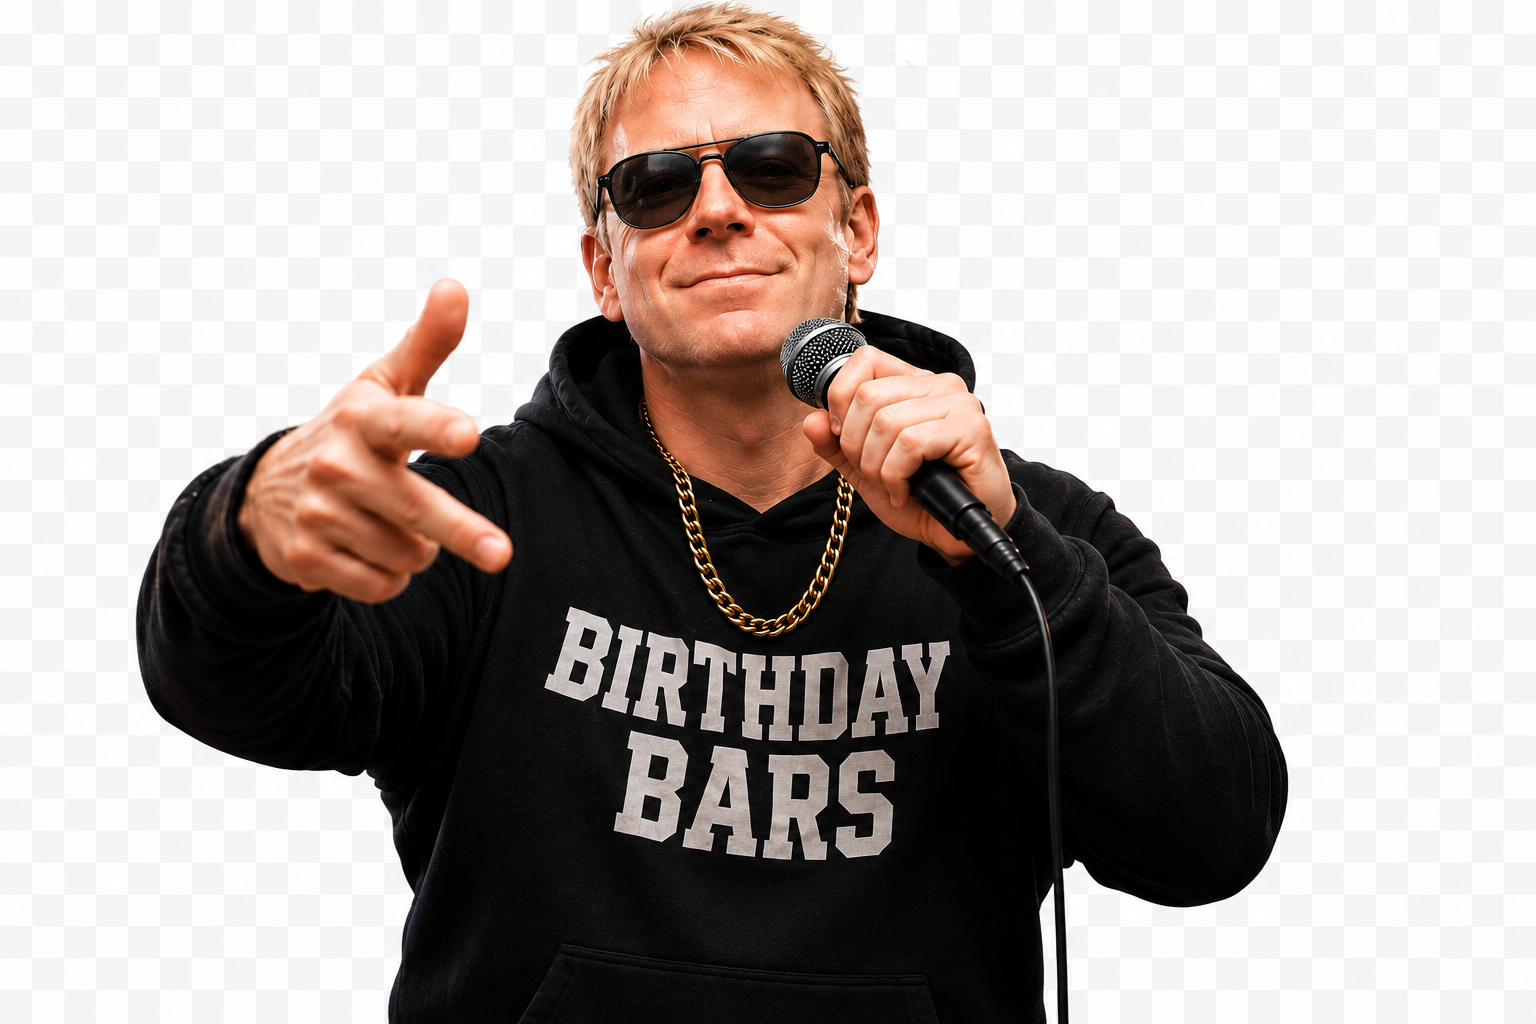
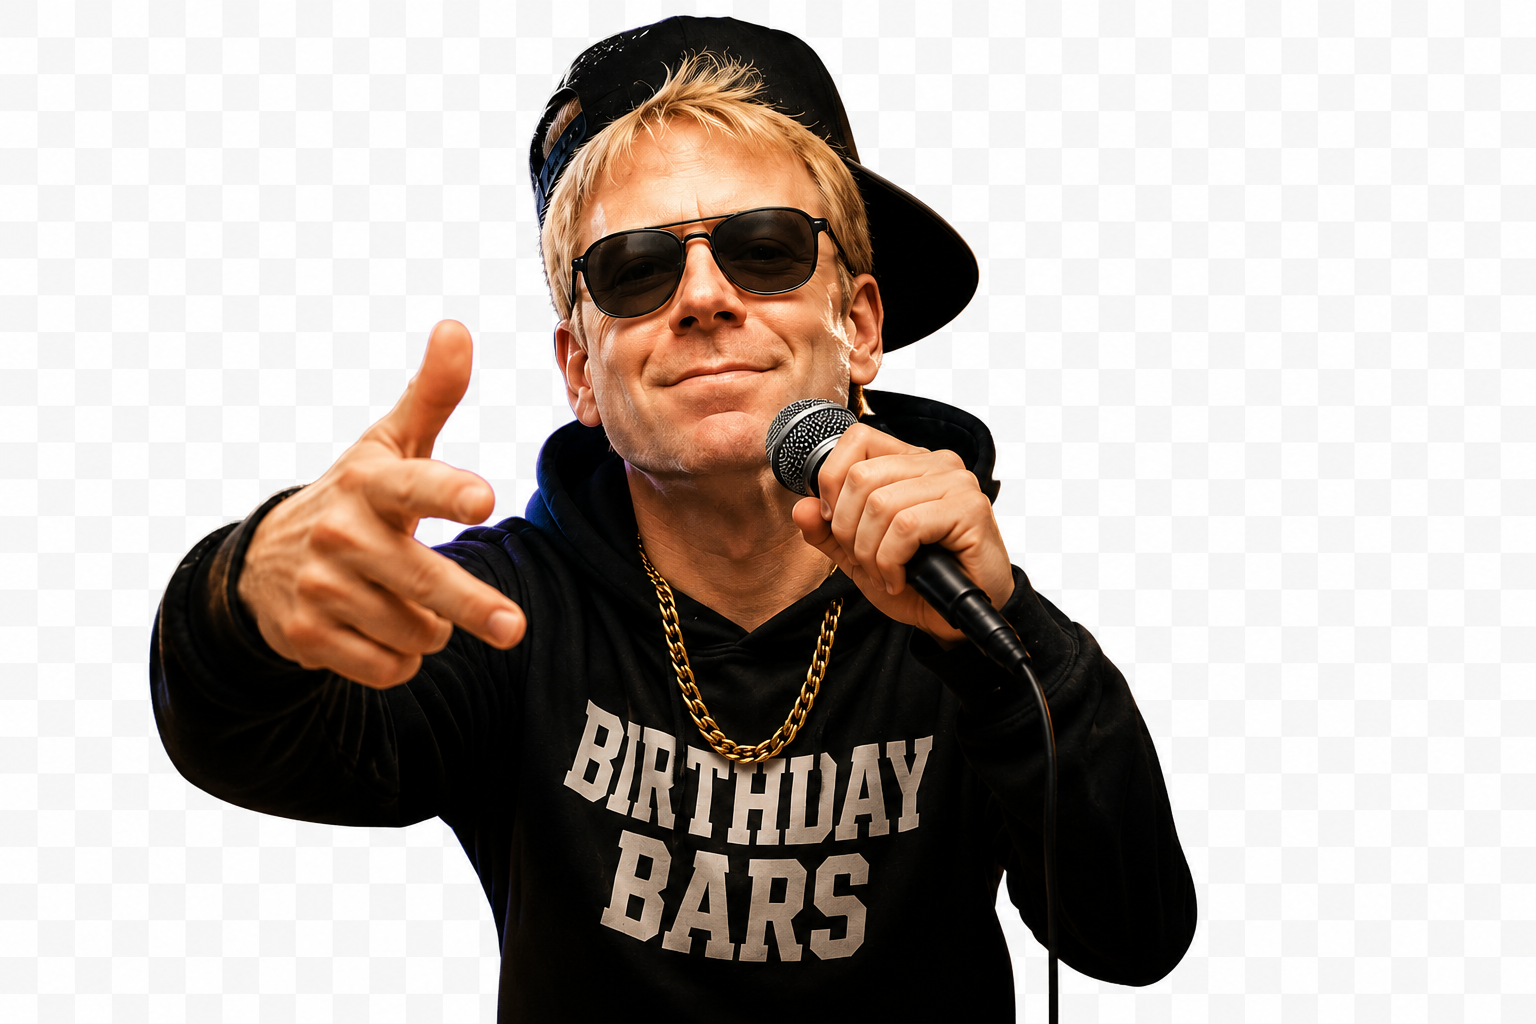
add Special bonus section with second FreeLipSync attempt

Changed region(s): [[0.0625, 0.0, 0.8438, 1.0]]

diff --git a/_posts/2026-07-25-eighteen_years_down.md b/_posts/2026-07-25-eighteen_years_down.md
@@ -138,3 +138,18 @@ Now go strike 'em down. Your story's just begun.</p>
 <p>A few years ago I couldn't have made anything like this. I don't have any musical talent and I'm not about to hire someone to record a birthday rap. But an evening of messing around with free tools got me something my daughter is going to love (and be a little mortified by), and that's a pretty great trade.</p>
 
 <p>Happy 18th, Jenna. We love you. Now go strike 'em down. Your story's just begun!</p>
+
+<hr style="border: 1px solid #ccc; margin: 40px 0;">
+
+<h2>Special bonus</h2>
+
+<p>After I finished the first version, I went back into ChatGPT and had it generate another rapper picture of me - this time without the hat and with a baggier sweatshirt. Then I ran it through FreeLipSync with the same audio to see how it would come out:</p>
+
+<p style="text-align: center;">
+<img src="{{ site.baseurl }}/assets/images/eighteen_years_down_rapper_v2.png" alt="second ChatGPT-generated rapper version of Jay, no hat" width="500" /><br/>
+<small>Rapper Jay v2 - no hat, baggier hoodie.</small>
+</p>
+
+<p style="text-align: center;">
+<iframe width="560" height="315" src="https://www.youtube.com/embed/w9h0H2SpY7I?cc_load_policy=0" title="Eighteen Years Down - Bonus Version" frameborder="0" allow="accelerometer; autoplay; clipboard-write; encrypted-media; gyroscope; picture-in-picture; web-share" referrerpolicy="strict-origin-when-cross-origin" allowfullscreen></iframe>
+</p>
